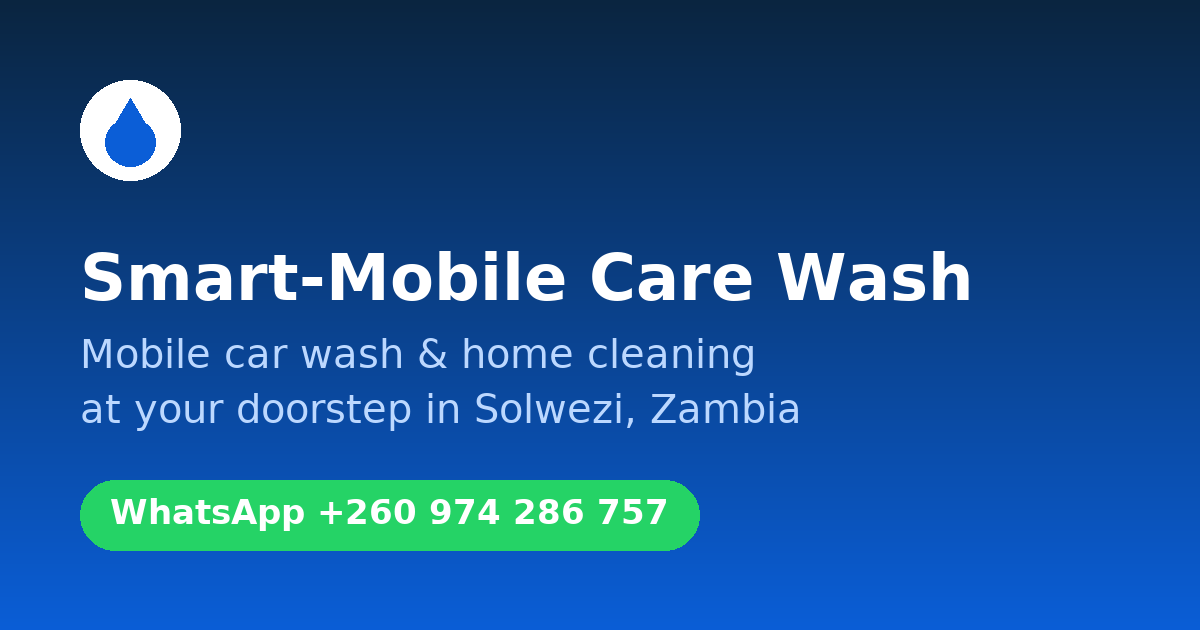
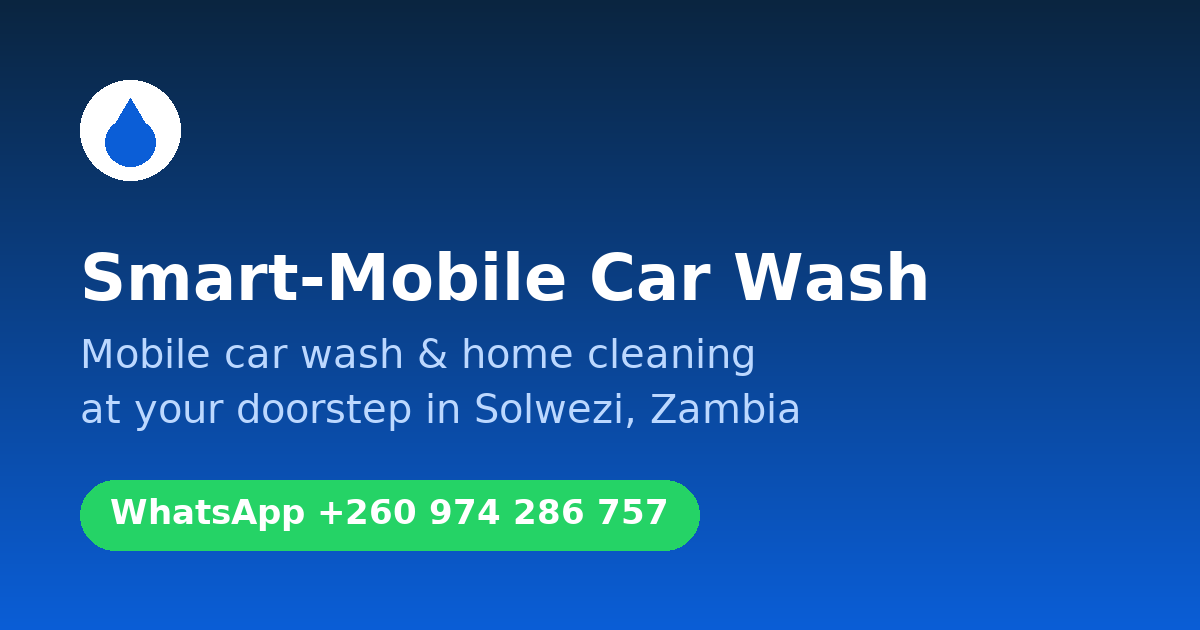
Rename business to Smart-Mobile Car Wash

Changed region(s): [[0.5858, 0.3921, 0.8325, 0.4825]]

diff --git a/index.html b/index.html
@@ -3,9 +3,9 @@
 <head>
   <meta charset="utf-8">
   <meta name="viewport" content="width=device-width, initial-scale=1">
-  <title>Smart-Mobile Care Wash | Mobile Car Wash &amp; Home Cleaning in Solwezi, Zambia</title>
-  <meta name="description" content="Smart-Mobile Care Wash brings car washing, interior cleaning, car mats, carpet and sofa cleaning to your doorstep in Solwezi, North-Western Province, Zambia. Reliable, trusted and affordable. Book on WhatsApp +260 974 286 757.">
-  <meta name="keywords" content="mobile car wash Solwezi, car wash Zambia, carpet cleaning Solwezi, sofa cleaning Solwezi, Smart-Mobile Care Wash">
+  <title>Smart-Mobile Car Wash | Car Wash &amp; Home Cleaning at Your Doorstep in Solwezi, Zambia</title>
+  <meta name="description" content="Smart-Mobile Car Wash brings car washing, interior cleaning, car mats, carpet and sofa cleaning to your doorstep in Solwezi, North-Western Province, Zambia. Reliable, trusted and affordable. Book on WhatsApp +260 974 286 757.">
+  <meta name="keywords" content="mobile car wash Solwezi, car wash Zambia, carpet cleaning Solwezi, sofa cleaning Solwezi, Smart-Mobile Car Wash">
   <meta name="theme-color" content="#0b5ed7">
   <!-- Live address. If you add a custom domain, change it here, in og:url, og:image and in the JSON-LD below -->
   <link rel="canonical" href="https://master-mobile-care-wash.web.app/">
@@ -13,8 +13,8 @@
 
   <!-- Open Graph (how the link looks when shared on WhatsApp / Facebook) -->
   <meta property="og:type" content="website">
-  <meta property="og:site_name" content="Smart-Mobile Care Wash">
-  <meta property="og:title" content="Smart-Mobile Care Wash – Mobile Car Wash &amp; Home Cleaning in Solwezi">
+  <meta property="og:site_name" content="Smart-Mobile Car Wash">
+  <meta property="og:title" content="Smart-Mobile Car Wash – Car Wash &amp; Home Cleaning at Your Doorstep in Solwezi">
   <meta property="og:description" content="We come to your doorstep: car wash, interior, car mats, carpets and sofas. Reliable, trusted and affordable. Book on WhatsApp.">
   <meta property="og:url" content="https://master-mobile-care-wash.web.app/">
   <meta property="og:image" content="https://master-mobile-care-wash.web.app/img/og-image.png">
@@ -34,7 +34,7 @@
   {
     "@context": "https://schema.org",
     "@type": ["LocalBusiness", "AutoWash"],
-    "name": "Smart-Mobile Care Wash",
+    "name": "Smart-Mobile Car Wash",
     "description": "Mobile car wash and home cleaning (carpets, mats, sofas) at the customer's doorstep in Solwezi, Zambia.",
     "url": "https://master-mobile-care-wash.web.app/",
     "image": "https://master-mobile-care-wash.web.app/img/og-image.png",
@@ -71,9 +71,9 @@
   <nav class="navbar navbar-expand-lg fixed-top site-nav" id="siteNav" aria-label="Main navigation">
     <div class="container">
       <a class="navbar-brand d-flex align-items-center gap-2" href="#top">
-        <img id="navLogo" class="brand-logo d-none" alt="Smart-Mobile Care Wash logo" width="42" height="42">
+        <img id="navLogo" class="brand-logo d-none" alt="Smart-Mobile Car Wash logo" width="42" height="42">
         <span id="navLogoIcon" class="brand-icon" aria-hidden="true"><i class="bi bi-droplet-half"></i></span>
-        <span class="brand-text">Smart-Mobile<small>Care Wash</small></span>
+        <span class="brand-text">Smart-Mobile<small>Car Wash</small></span>
       </a>
       <button class="navbar-toggler" type="button" data-bs-toggle="collapse" data-bs-target="#navMenu"
               aria-controls="navMenu" aria-expanded="false" aria-label="Open menu">
@@ -102,10 +102,10 @@
           <div class="col-lg-7">
             <span class="hero-badge"><i class="bi bi-geo-alt-fill"></i> Solwezi · North-Western Province</span>
             <h1 class="hero-title">Mobile car wash &amp; home cleaning <span>at your doorstep</span></h1>
-            <p class="hero-lead">Smart-Mobile Care Wash comes to you – at home, at work or in your yard. Reliable, trusted and affordable cleaning for your car, carpets and sofas.</p>
+            <p class="hero-lead">Smart-Mobile Car Wash comes to you – at home, at work or in your yard. Reliable, trusted and affordable cleaning for your car, carpets and sofas.</p>
             <div class="d-flex flex-wrap gap-2 mt-4">
               <a class="btn btn-light btn-lg btn-pill fw-semibold px-4" href="#book"><i class="bi bi-calendar-check me-1"></i> Book a wash</a>
-              <a class="btn btn-whatsapp btn-lg btn-pill px-4" data-wa-link data-wa-text="Hello Smart-Mobile Care Wash, I would like to book a wash." href="https://wa.me/260974286757" target="_blank" rel="noopener"><i class="bi bi-whatsapp me-1"></i> WhatsApp us</a>
+              <a class="btn btn-whatsapp btn-lg btn-pill px-4" data-wa-link data-wa-text="Hello Smart-Mobile Car Wash, I would like to book a wash." href="https://wa.me/260974286757" target="_blank" rel="noopener"><i class="bi bi-whatsapp me-1"></i> WhatsApp us</a>
               <a class="btn btn-outline-light btn-lg btn-pill px-4" data-tel-link href="tel:+260974286757"><i class="bi bi-telephone-fill me-1"></i> Call</a>
             </div>
             <ul class="hero-points list-unstyled d-flex flex-wrap gap-3 mt-4 mb-0">
@@ -213,7 +213,7 @@
           <div class="col-lg-5">
             <span class="eyebrow">Why choose us</span>
             <h2>Reliable, trusted and affordable</h2>
-            <p class="text-muted">We built Smart-Mobile Care Wash to save you time. You get a professional clean while you stay at home or at work.</p>
+            <p class="text-muted">We built Smart-Mobile Car Wash to save you time. You get a professional clean while you stay at home or at work.</p>
             <a class="btn btn-primary btn-pill px-4 mt-2" href="#book">Book your clean <i class="bi bi-arrow-right ms-1"></i></a>
           </div>
           <div class="col-lg-7">
@@ -253,7 +253,7 @@
         <div id="reviewGrid" class="row g-3 g-lg-4"></div>
         <div class="text-center mt-4 d-flex flex-wrap gap-2 justify-content-center">
           <button id="reviewMore" type="button" class="btn btn-outline-light btn-pill px-4" hidden>Show more reviews</button>
-          <a class="btn btn-whatsapp btn-pill px-4" data-wa-link data-wa-text="Hello Smart-Mobile Care Wash, I would like to leave a review. My name: … Area: … Service: … Stars (1-5): … My review: …" href="https://wa.me/260974286757" target="_blank" rel="noopener"><i class="bi bi-chat-heart me-1"></i> Leave a review</a>
+          <a class="btn btn-whatsapp btn-pill px-4" data-wa-link data-wa-text="Hello Smart-Mobile Car Wash, I would like to leave a review. My name: … Area: … Service: … Stars (1-5): … My review: …" href="https://wa.me/260974286757" target="_blank" rel="noopener"><i class="bi bi-chat-heart me-1"></i> Leave a review</a>
         </div>
       </div>
     </section>
@@ -285,7 +285,7 @@ Sunday: by appointment</p></div>
                   <p class="mb-0"><a data-tel-link href="tel:+260974286757"><span data-phone-text>+260 974 286 757</span></a></p></div>
               </div>
               <div class="d-flex flex-wrap gap-2 mt-3">
-                <a class="btn btn-whatsapp btn-pill flex-fill" data-wa-link data-wa-text="Hello Smart-Mobile Care Wash, do you come to my area?" href="https://wa.me/260974286757" target="_blank" rel="noopener"><i class="bi bi-whatsapp me-1"></i> WhatsApp</a>
+                <a class="btn btn-whatsapp btn-pill flex-fill" data-wa-link data-wa-text="Hello Smart-Mobile Car Wash, do you come to my area?" href="https://wa.me/260974286757" target="_blank" rel="noopener"><i class="bi bi-whatsapp me-1"></i> WhatsApp</a>
                 <a class="btn btn-outline-primary btn-pill flex-fill" data-tel-link href="tel:+260974286757"><i class="bi bi-telephone-fill me-1"></i> Call</a>
               </div>
             </div>
@@ -402,7 +402,7 @@ Sunday: by appointment</p></div>
             <p class="mb-0">Send us a message now – we come to your doorstep in Solwezi.</p>
           </div>
           <div class="d-flex flex-wrap gap-2">
-            <a class="btn btn-whatsapp btn-lg btn-pill px-4" data-wa-link data-wa-text="Hello Smart-Mobile Care Wash, I would like to book a wash." href="https://wa.me/260974286757" target="_blank" rel="noopener"><i class="bi bi-whatsapp me-1"></i> WhatsApp us</a>
+            <a class="btn btn-whatsapp btn-lg btn-pill px-4" data-wa-link data-wa-text="Hello Smart-Mobile Car Wash, I would like to book a wash." href="https://wa.me/260974286757" target="_blank" rel="noopener"><i class="bi bi-whatsapp me-1"></i> WhatsApp us</a>
             <a class="btn btn-light btn-lg btn-pill px-4" data-tel-link href="tel:+260974286757"><i class="bi bi-telephone-fill me-1"></i> Call now</a>
           </div>
         </div>
@@ -418,7 +418,7 @@ Sunday: by appointment</p></div>
           <div class="d-flex align-items-center gap-2 mb-3">
             <img id="footLogo" class="brand-logo d-none" alt="" width="42" height="42">
             <span id="footLogoIcon" class="brand-icon" aria-hidden="true"><i class="bi bi-droplet-half"></i></span>
-            <strong class="fs-5">Smart-Mobile Care Wash</strong>
+            <strong class="fs-5">Smart-Mobile Car Wash</strong>
           </div>
           <p>Mobile car wash and home cleaning at your doorstep. Reliable, trusted and affordable.</p>
         </div>
@@ -444,7 +444,7 @@ Sunday: by appointment</p>
         </div>
       </div>
       <div class="footer-bottom">
-        <p class="small mb-0">&copy; <span id="year">2026</span> Smart-Mobile Care Wash. All rights reserved.</p>
+        <p class="small mb-0">&copy; <span id="year">2026</span> Smart-Mobile Car Wash. All rights reserved.</p>
         <a class="small" href="#top">Back to top <i class="bi bi-arrow-up"></i></a>
       </div>
     </div>
@@ -452,8 +452,8 @@ Sunday: by appointment</p>
 
   <!-- Floating contact buttons -->
   <div class="float-buttons">
-    <a class="float-btn float-call" data-tel-link href="tel:+260974286757" aria-label="Call Smart-Mobile Care Wash"><i class="bi bi-telephone-fill"></i></a>
-    <a class="float-btn float-wa" data-wa-link data-wa-text="Hello Smart-Mobile Care Wash, I would like to book a wash." href="https://wa.me/260974286757" target="_blank" rel="noopener" aria-label="Chat on WhatsApp"><i class="bi bi-whatsapp"></i></a>
+    <a class="float-btn float-call" data-tel-link href="tel:+260974286757" aria-label="Call Smart-Mobile Car Wash"><i class="bi bi-telephone-fill"></i></a>
+    <a class="float-btn float-wa" data-wa-link data-wa-text="Hello Smart-Mobile Car Wash, I would like to book a wash." href="https://wa.me/260974286757" target="_blank" rel="noopener" aria-label="Chat on WhatsApp"><i class="bi bi-whatsapp"></i></a>
   </div>
 
   <!-- Gallery lightbox -->

diff --git a/admin.html b/admin.html
@@ -4,7 +4,7 @@
   <meta charset="utf-8">
   <meta name="viewport" content="width=device-width, initial-scale=1">
   <meta name="robots" content="noindex, nofollow">
-  <title>Admin | Smart-Mobile Care Wash</title>
+  <title>Admin | Smart-Mobile Car Wash</title>
   <link rel="icon" href="img/favicon.svg" type="image/svg+xml">
   <link rel="preconnect" href="https://fonts.googleapis.com">
   <link rel="preconnect" href="https://fonts.gstatic.com" crossorigin>
@@ -42,7 +42,7 @@
               <div class="text-center mb-3">
                 <span class="auth-logo auth-logo-sm"><i class="bi bi-droplet-half"></i></span>
                 <h1 class="h5 fw-semibold mb-1">Admin sign in</h1>
-                <p class="text-muted small mb-0">Smart-Mobile Care Wash</p>
+                <p class="text-muted small mb-0">Smart-Mobile Car Wash</p>
               </div>
               <form id="loginForm" novalidate>
                 <div class="form-floating mb-2">
@@ -63,7 +63,7 @@
               </form>
             </div>
           </div>
-          <p class="text-center text-white-50 small mt-3 mb-0">&copy; Smart-Mobile Care Wash</p>
+          <p class="text-center text-white-50 small mt-3 mb-0">&copy; Smart-Mobile Car Wash</p>
         </div>
       </div>
     </div>

diff --git a/js/public.js b/js/public.js
@@ -226,7 +226,7 @@ async function loadGallery() {
     if (!items.length) { grid.innerHTML = emptyGallery(); return; }
     grid.innerHTML = items.map((g, i) => {
       const label = g.label === "before" || g.label === "after" ? g.label : "";
-      const alt = g.caption || `${label ? label + " – " : ""}Smart-Mobile Care Wash work photo ${i + 1}`;
+      const alt = g.caption || `${label ? label + " – " : ""}Smart-Mobile Car Wash work photo ${i + 1}`;
       return `
         <div class="col-6 col-md-4 col-lg-3">
           <button type="button" class="gallery-item" data-index="${i}" aria-label="View photo: ${esc(alt)}">

diff --git a/js/defaults.js b/js/defaults.js
@@ -2,7 +2,7 @@
 // Firestore the first time and (2) by the public site as a fallback when
 // Firestore cannot be reached.
 
-export const BUSINESS_NAME = "Smart-Mobile Care Wash";
+export const BUSINESS_NAME = "Smart-Mobile Car Wash";
 export const DEFAULT_PHONE = "+260 974 286 757";
 export const DEFAULT_WHATSAPP = "260974286757";
 

diff --git a/css/style.css b/css/style.css
@@ -1,5 +1,5 @@
 /* =====================================================================
-   Smart-Mobile Care Wash – blue & white theme
+   Smart-Mobile Car Wash – blue & white theme
    ===================================================================== */
 :root {
   --mm-blue: #0b5ed7;

diff --git a/js/admin.js b/js/admin.js
@@ -1,4 +1,4 @@
-// Admin dashboard for Smart-Mobile Care Wash.
+// Admin dashboard for Smart-Mobile Car Wash.
 import { canUseFirebase, getActiveConfig, USE_EMULATORS, FIREBASE_SDK } from "./firebase-config.js";
 import { compressImage, formatBytes } from "./image-utils.js";
 import {

diff --git a/README.md b/README.md
@@ -1,6 +1,6 @@
-# Smart-Mobile Care Wash – website + admin
+# Smart-Mobile Car Wash – website + admin
 
-A fast, mobile-first website for **Smart-Mobile Care Wash** (Solwezi, Zambia), with a private admin page where you change prices, photos, service areas, working hours and the FAQ yourself.
+A fast, mobile-first website for **Smart-Mobile Car Wash** (Solwezi, Zambia), with a private admin page where you change prices, photos, service areas, working hours and the FAQ yourself.
 
 - **Public site:** `index.html`. Customers see your services and prices in Kwacha and book through WhatsApp.
 - **Admin:** `admin.html`. Only you can log in.
